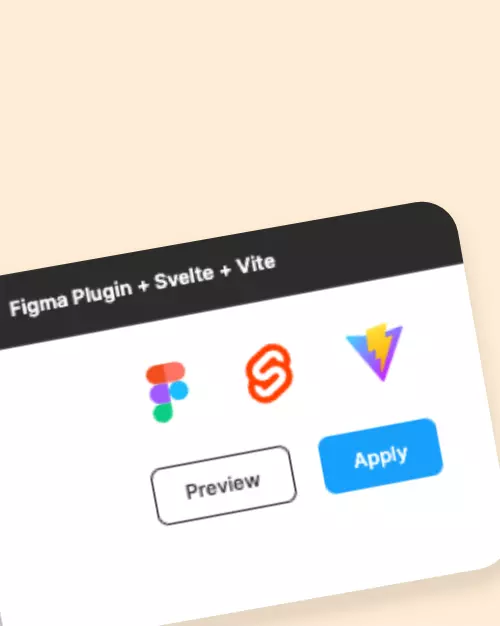
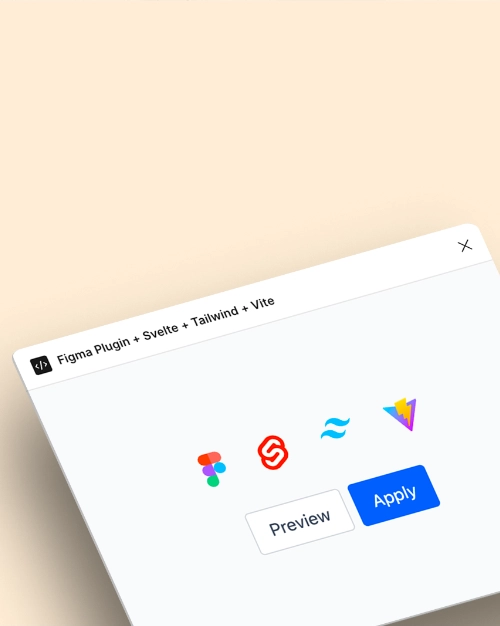
feat: Add Tailwind to Figma plugin boilerplate description and portfolio data

diff --git a/src/i18n/ui.ts b/src/i18n/ui.ts
@@ -47,7 +47,7 @@ export const ui = {
             "🐹 An API for deploying Google Cloud Functions in Go",
         "portifolio.8.title": "Figma plugin boilerplate",
         "portifolio.8.description":
-            "A boilerplate for creating Figma plugins with Svelte, Vite and Typescript",
+            "A boilerplate for creating Figma plugins with Svelte, Tailwind, Vite and Typescript",
         "portifolio.9.title": "Dependencies report",
         "portifolio.9.description": `Analyze the consistency of the dependencies in your company's frontend projects`,
         "portifolio.10.title": "Personal Portfolio 2v",
@@ -194,7 +194,7 @@ export const ui = {
             "🐹 Uma API para implantar o Google Cloud Functions em Go",
         "portifolio.8.title": "Figma plugin boilerplate",
         "portifolio.8.description":
-            "Um boilerplate para criar plugins Figma com Svelte, Vite e Typescript",
+            "Um boilerplate para criar plugins Figma com Svelte, Tailwind, Vite e Typescript",
         "portifolio.9.title": "Relatório de dependências",
         "portifolio.9.description": `Analise a consistência das dependências nos projectos front-end da sua empresa`,
         "portifolio.10.title": "Portfólio Pessoal 2v",

diff --git a/src/data/portfolio.ts b/src/data/portfolio.ts
@@ -230,6 +230,10 @@ export const portfolioData = (t: any) => {
 					icon: 'svelte',
 					name: 'Svelte',
 				},
+                {
+					icon: 'tailwind',
+					name: 'Tailwind',
+				},
 				{
 					icon: 'vite',
 					name: 'Vite',
